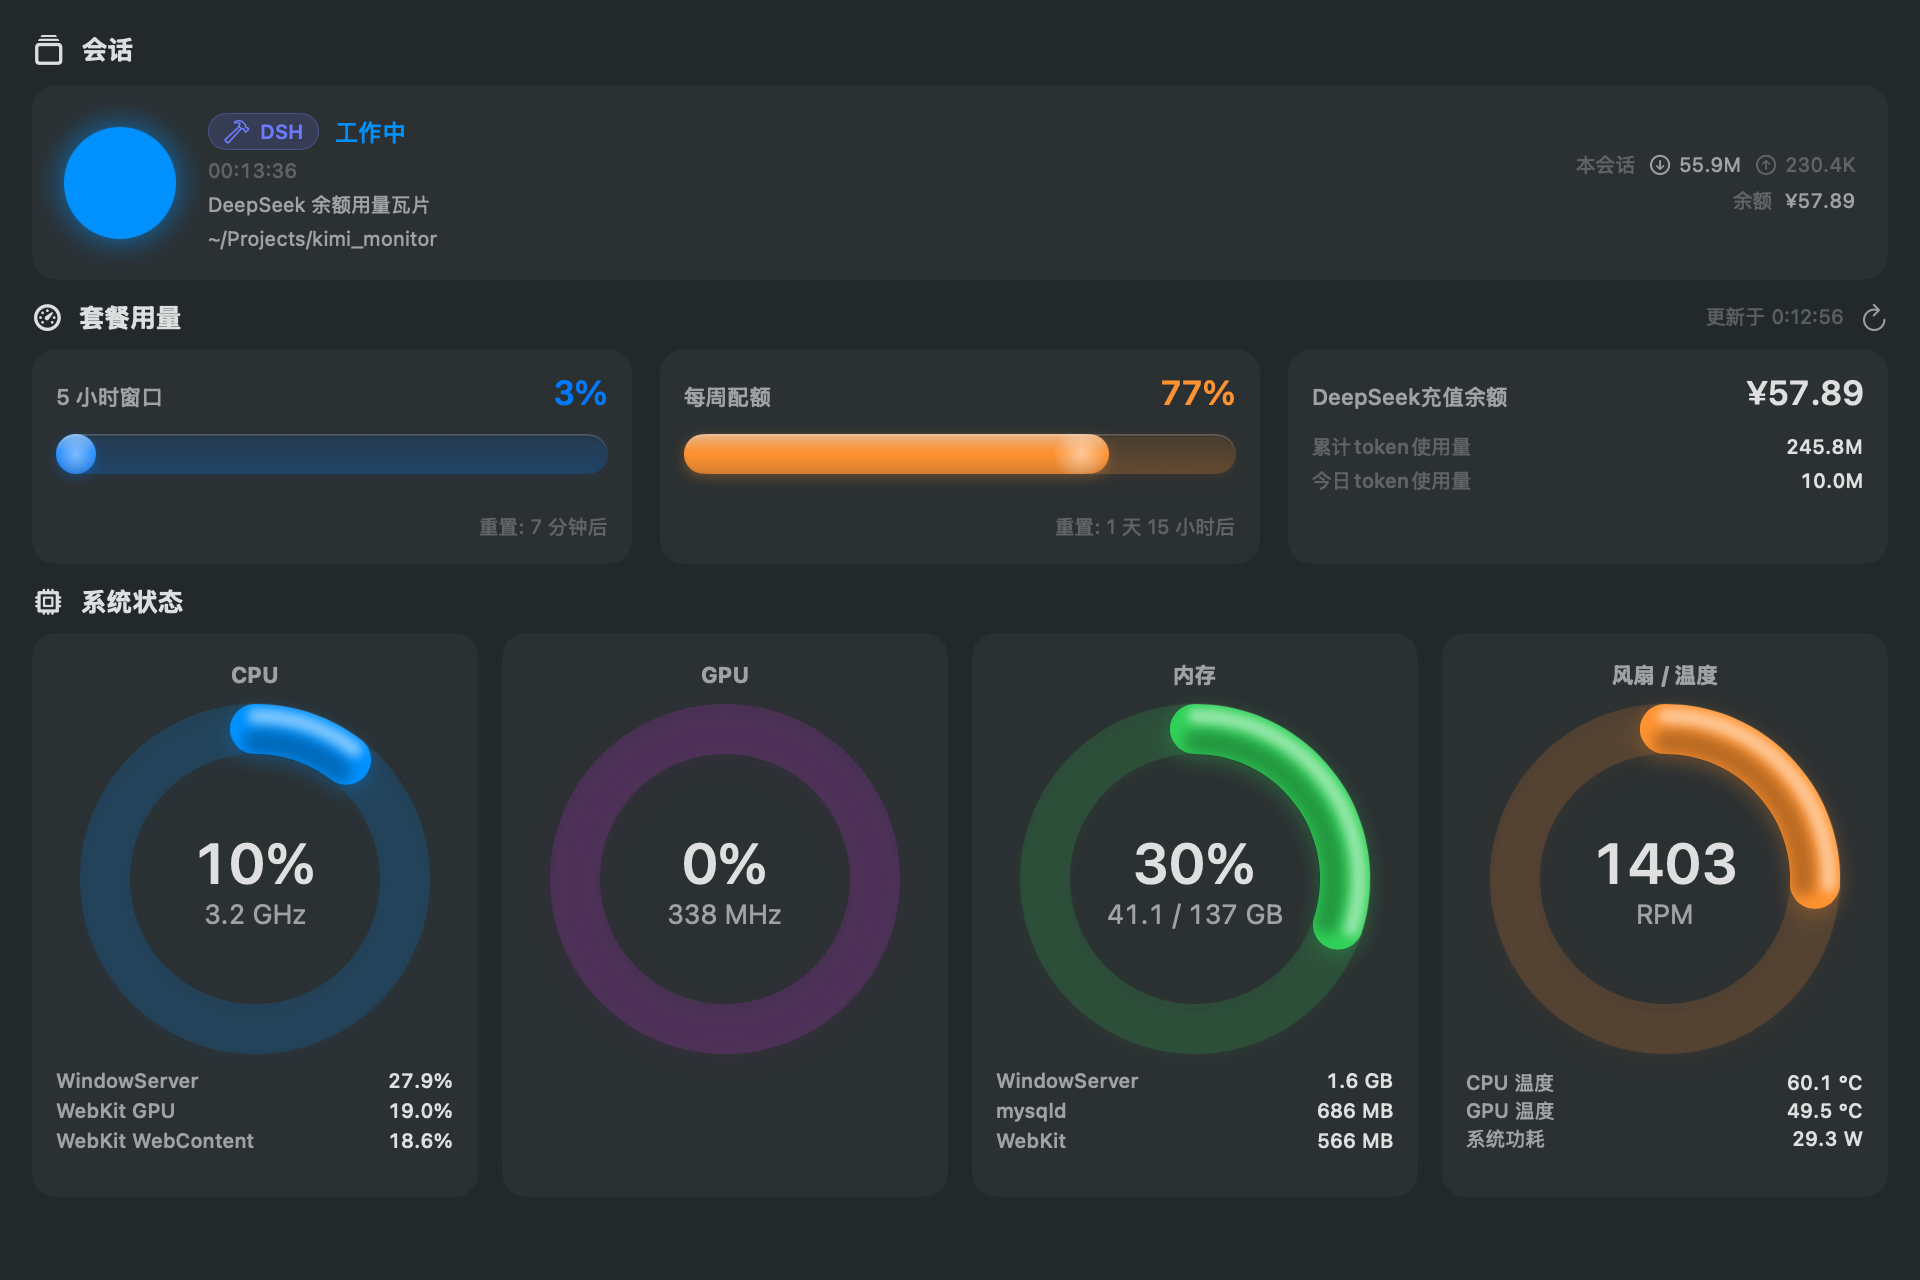
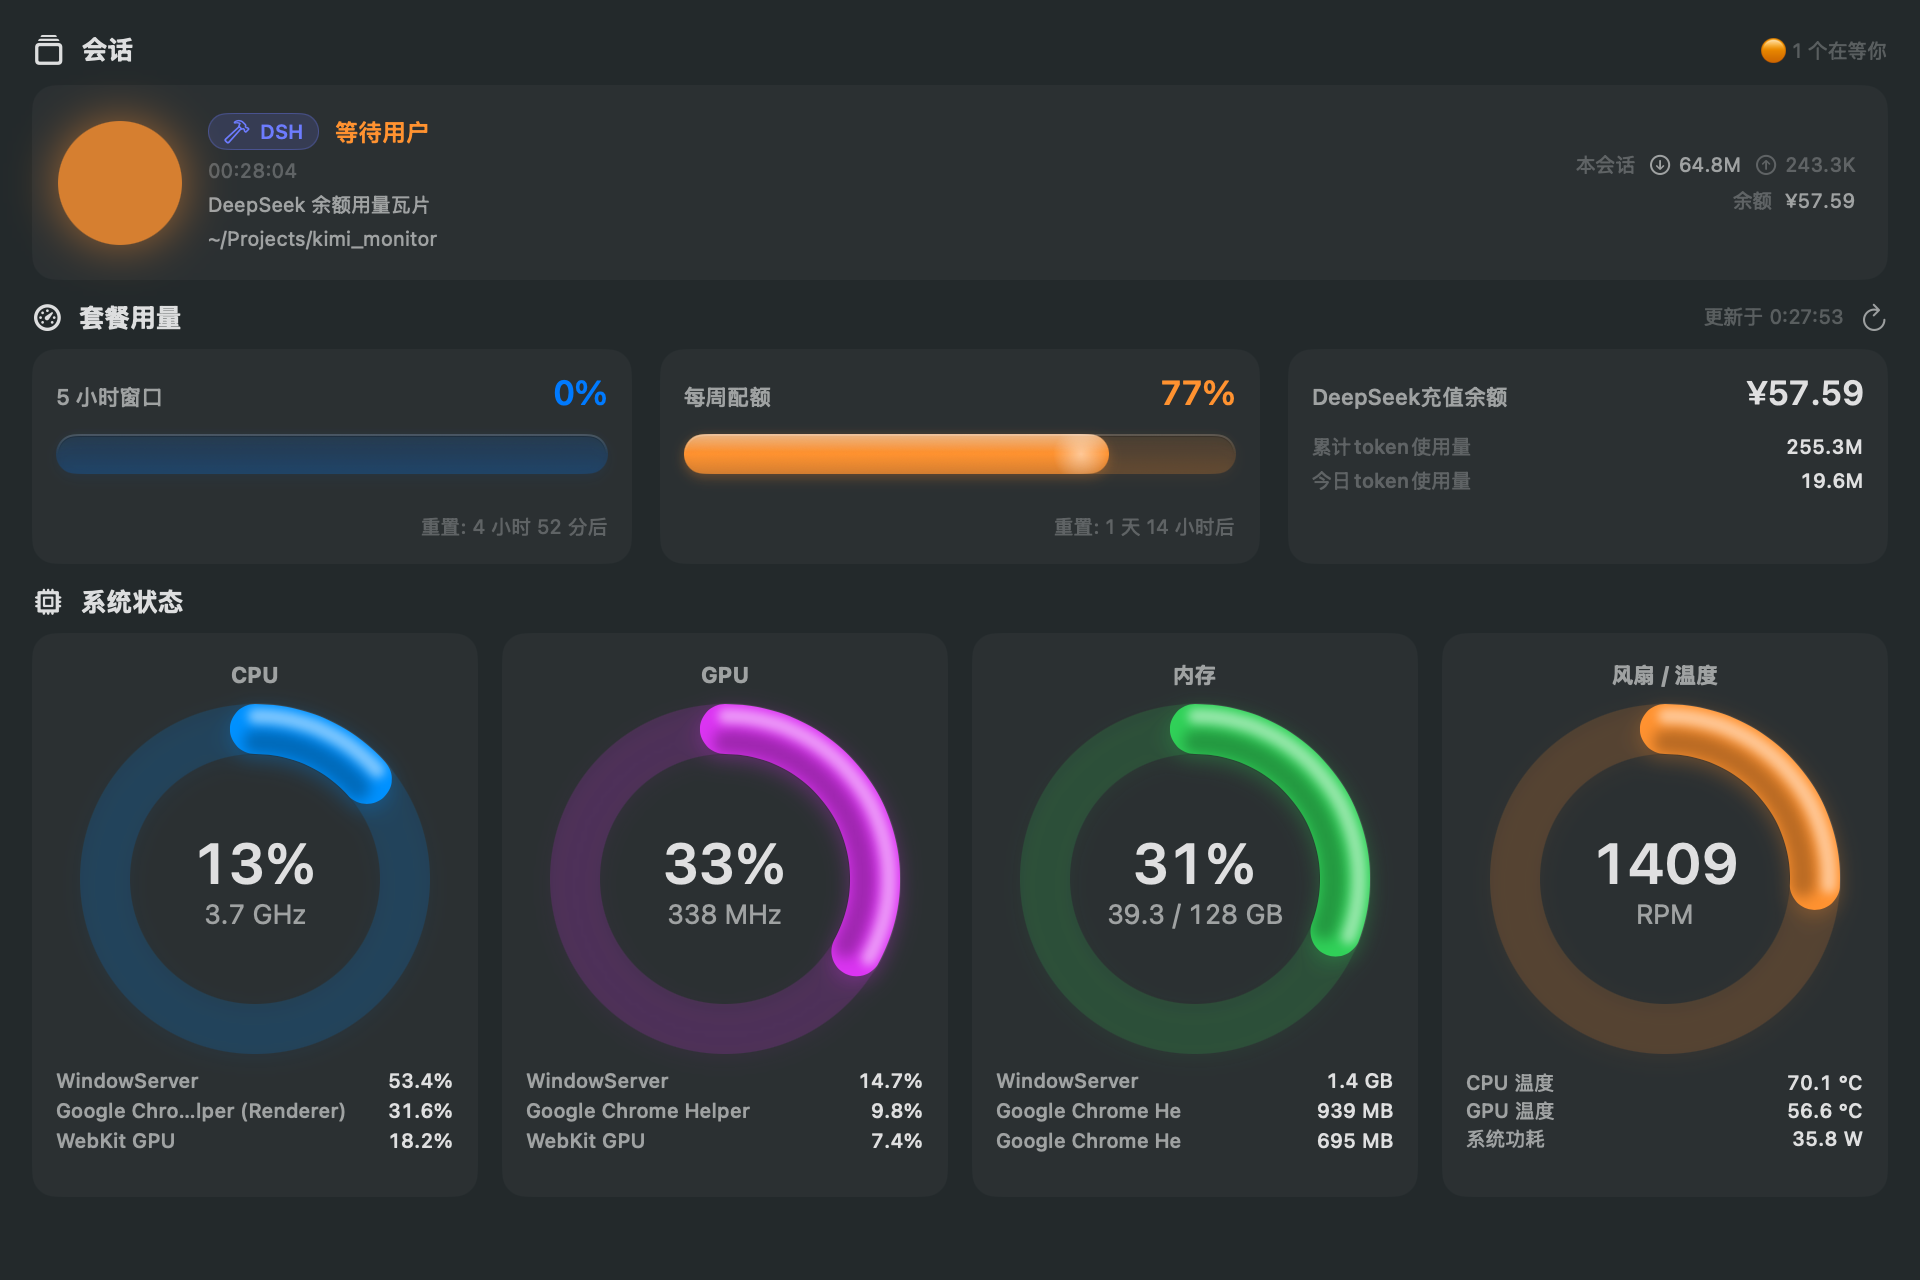
Show memory in binary units (128 GB, not 137 GB), refresh screenshot
physicalMemory is a byte count, and the gauge divided it by 1e9. macOS
reports memory in binary units while labelling them "GB" — About This Mac
calls this 137,438,953,472-byte machine 128 GB — so the decimal divisor
overstated every figure by 7.4%.

Divide by 1024^3 instead, and convert the Top-3 process column the same way
so a single tile never mixes units. The used fraction was already correct
because both sides shared the divisor.

diff --git a/app/Monitors/SystemMonitor.swift b/app/Monitors/SystemMonitor.swift
@@ -5,6 +5,12 @@ import IOKit
 final class SystemMonitor: ObservableObject {
     static let shared = SystemMonitor()
 
+    /// macOS reports memory in binary units but labels them "GB" — About This
+    /// Mac calls a 137,438,953,472-byte machine "128 GB", not "137 GB" — so
+    /// dividing bytes by 1e9 would overstate every figure by ~7.4%.
+    private static let bytesPerGiB = 1024.0 * 1024 * 1024
+    private static let bytesPerMiB = 1024.0 * 1024
+
     /// A top-N process row shown inside a gauge tile.
     struct ProcessUsage: Identifiable {
         var id: Int { pid }
@@ -155,9 +161,9 @@ final class SystemMonitor: ObservableObject {
     private func topMemoryProcesses() -> [ProcessUsage] {
         let rows = topMemRows()
         return rows.prefix(3).map { pid, name, bytes in
-            let gb = Double(bytes) / 1e9
-            let text = gb >= 1 ? String(format: "%.1f GB", gb)
-                               : String(format: "%.0f MB", gb * 1000)
+            let gib = Double(bytes) / Self.bytesPerGiB
+            let text = gib >= 1 ? String(format: "%.1f GB", gib)
+                                : String(format: "%.0f MB", Double(bytes) / Self.bytesPerMiB)
             return ProcessUsage(pid: pid, name: friendlyName(name), value: text)
         }
     }
@@ -449,7 +455,8 @@ final class SystemMonitor: ObservableObject {
         let usedPages = UInt64(stats.active_count) + UInt64(stats.wire_count)
             + UInt64(stats.compressor_page_count)
         let totalBytes = ProcessInfo.processInfo.physicalMemory
-        return (Double(usedPages * pageSize) / 1e9, Double(totalBytes) / 1e9)
+        return (Double(usedPages * pageSize) / Self.bytesPerGiB,
+                Double(totalBytes) / Self.bytesPerGiB)
     }
 
     // MARK: - GPU (IOAccelerator performance statistics, no sudo needed)
